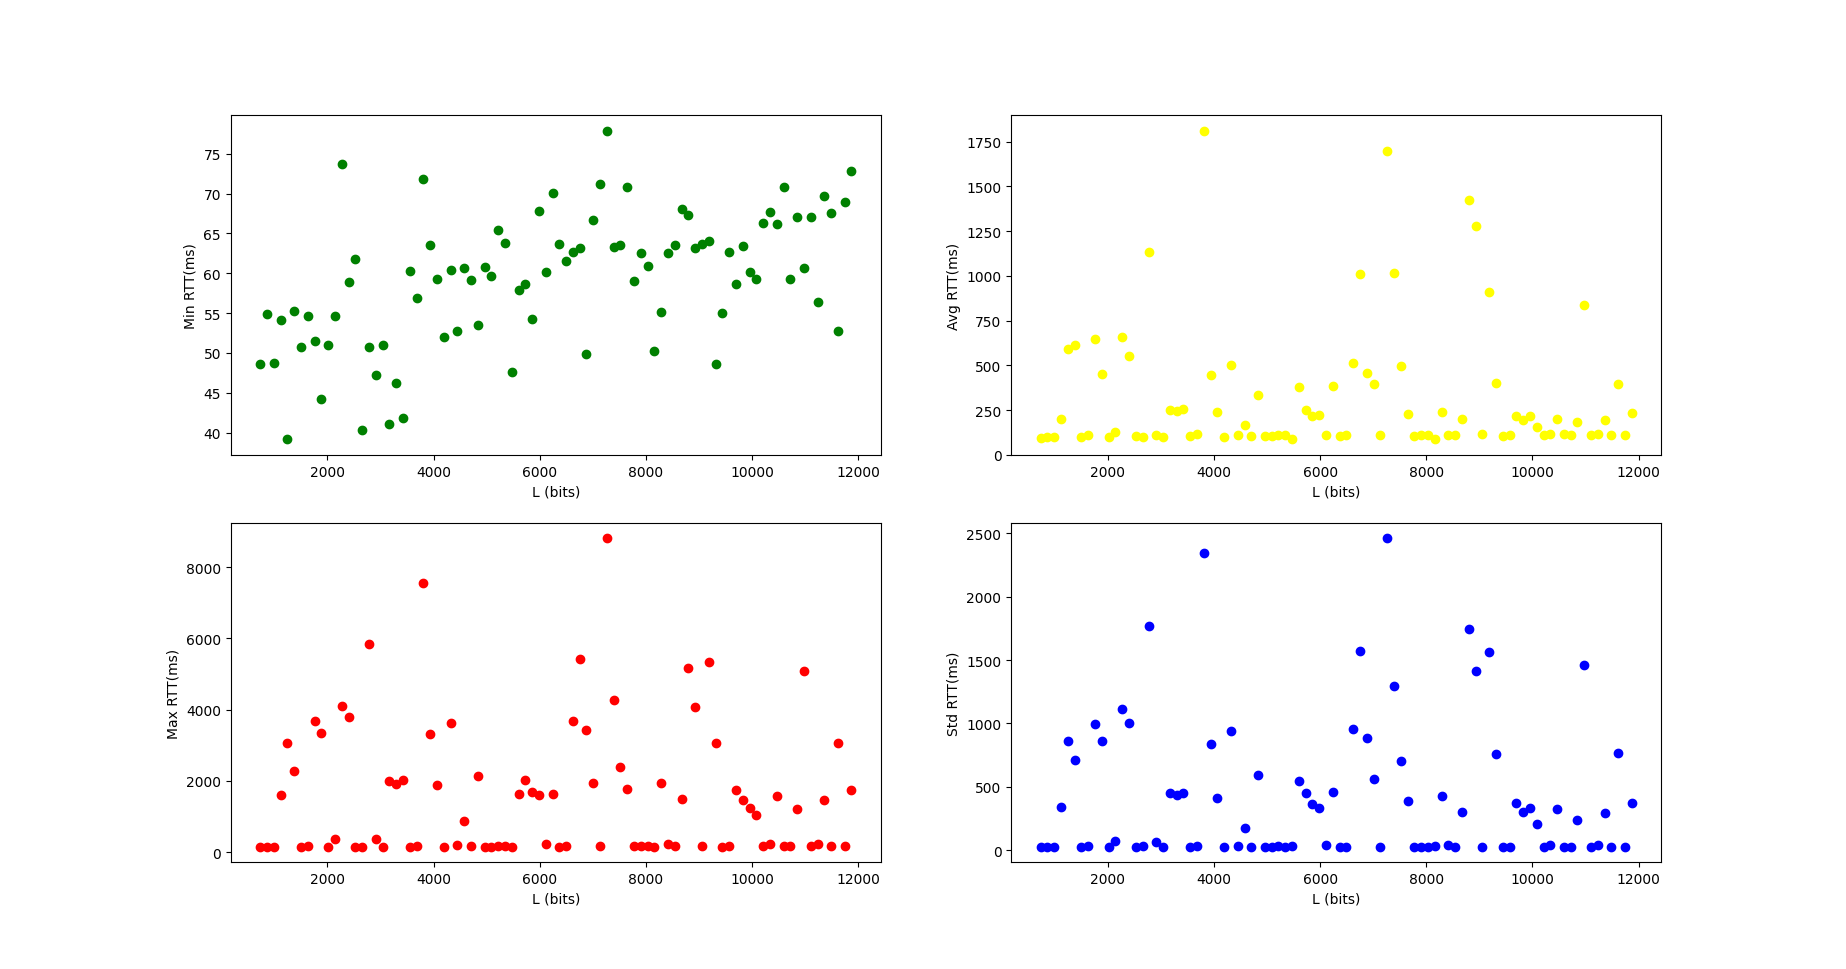
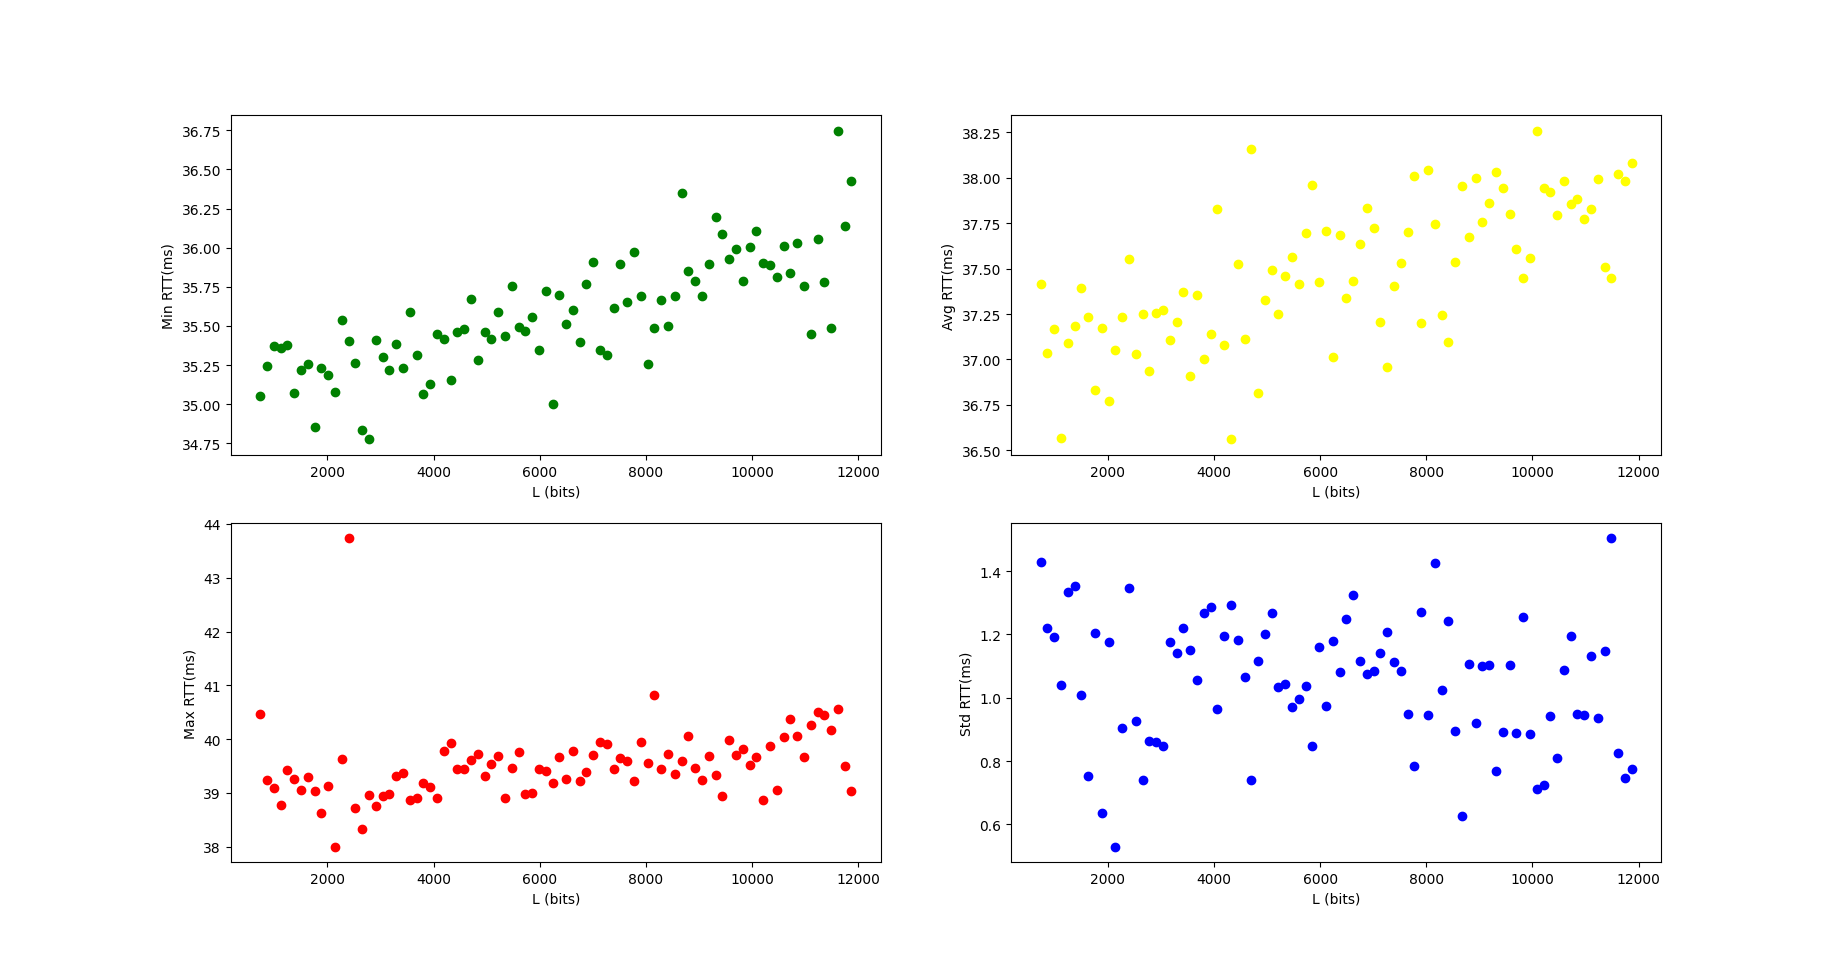
reporting

diff --git a/src/windows.py b/src/windows.py
@@ -74,14 +74,12 @@ def psping(ip, n, size):
 def get_stdev(out: str):
     round_trip_times = re.findall(r": (\d+\.\d+)ms", out)
     round_trip_times = list(map(float, round_trip_times))
-    # print(out)
-    # print(round_trip_times)
     stdev = statistics.pstdev(round_trip_times)
     return stdev
 
 
 # net performance
-def run_netperf(ip: str, k_packets=20, l_packets=64):
+def run_netperf(ip: str, k_packets=40, l_packets=64):
 
     ping_info = psping(ip, n=k_packets, size=l_packets)
     rtt = get_rtt(ping_info)

diff --git a/src/linux.py b/src/linux.py
@@ -79,10 +79,9 @@ def ping(ip, n, ttl, size, sudo):
 # net performance
 
 
-def run_netperf(ip: str, k_packets=20, TimeToLive=64, l_packets=64, sudo=False):
+def run_netperf(ip: str, k_packets=40, TimeToLive=64, l_packets=64, sudo=False):
 
-    ping_info = ping(ip, n=k_packets, ttl=TimeToLive,
-                     size=l_packets, sudo=sudo)
+    ping_info = ping(ip, n=k_packets, ttl=TimeToLive, size=l_packets, sudo=sudo)
     rtt = get_rtt(ping_info)
 
     return rtt

diff --git a/Report.md b/Report.md
@@ -38,7 +38,7 @@ $ mkdir output
 $ python3 -B ./src/netperf.py
 ```
 
-Once the program is running, it will ask to insert the hostname of which the **ping** command is going to run (notice that you can skip this input by simply pressing _Enter_ and the default hostname will be _"lon.speedtest.clouvider.net"_) and if you are in linux it will ask also to decide whether the user wants to run the commands in _sudo_ mode. In windows it is better practise to open the terminal in administrator mode in order to solve authorization problems. Then the program will run some ping commands in sequence and the traceroute command (tracert for windows) to find the correct amount of links crossed. Another ping command is prompted in order to save the output. At the end the program will loop other ping commands with increasing payload of packets each iteration up to 1472 bytes and steps of 16 bytes (number of packets sent is 20 each time). The last part of the program could take more than 10 minutes because the **ping** command is a time consuming process expecially if used for 90 iterations. In windows **psping** remove this time issue.
+Once the program is running, it will ask to insert the hostname of which the **ping** command is going to run (notice that you can skip this input by simply pressing _Enter_ and the default hostname will be _"lon.speedtest.clouvider.net"_) and if you are in linux it will ask also to decide whether the user wants to run the commands in _sudo_ mode. In windows it is better practise to open the terminal in administrator mode in order to solve authorization problems. Then the program will run some ping commands in sequence and the traceroute command (tracert for windows) to find the correct amount of links crossed. Another ping command is prompted in order to save the output. At the end the program will loop other ping commands with increasing payload of packets each iteration up to 1472 bytes and steps of 16 bytes (number of packets sent is 40 each time).
 
 ### Example NetPerf
 
@@ -49,7 +49,7 @@ Considering:
 * Finding total hops -->
 
   - Linux:
-    - command **ping** with params: _'-c 1'_ to send only 1 packet, _'-t n'_ to set max TTL to value _n_ and _'-s 1'_ to set packet size to 1 byte
+    - command **ping** with params: _'-i 0.01'_ to set waiting time to 0.01s, _'-c 1'_ to send only 1 packet, _'-t n'_ to set max TTL to value _n_ and _'-s 1'_ to set packet size to 1 byte
     - command **traceroute** to verify the correct links crossed during the **ping**
   - Windows:
     - command **ping** with params: _'-n 1'_ to send only 1 packet, _'-i n'_ to set max TTL to value _n_ and _'-l 1'_ to set packet size to 1 byte
@@ -58,23 +58,22 @@ Considering:
 * Default **ping** to save output to _.txt_ -->
 
   - Linux:
-    - command **ping** with params: _'-c 10'_ to send 10 packets, _'-t 64'_ to set max TTL to value _64_ and _'-s 64'_ to set packet size to 64 bytes
+    - command **ping** with params: _'-i 0.01'_ to set waiting time to 0.01s, _'-c 10'_ to send 10 packets, _'-t 64'_ to set max TTL to value _64_ and _'-s 64'_ to set packet size to 64 bytes
   - Windows:
     - command **ping** with params: _'-n 10'_ to send 10 packets, _'-i 64'_ to set max TTL to value _64_ and _'-l 64'_ to set packet size to 64 bytes
 
 * **Ping** loop to get the network stats -->
   - Set a list of steps of bytes starting from 64 up to 1472 with steps of 16 bytes.
   - Linux:
-    - command **ping** with params: _'-c 20'_ to send 20 packets, _'-t 64'_ to set max TTL to default value _64_ and _'-s steps[i]'_ to set packet size to _steps[i]_ bytes
+    - command **ping** with params: _'-i 0.01'_ to set waiting time to 0.01s, _'-c 40'_ to send 40 packets, _'-t 64'_ to set max TTL to default value _64_ and _'-s steps[i]'_ to set packet size to _steps[i]_ bytes
   - Windows:
-    - command **ping** with params: _'-n 20'_ to send 20 packets, _'-i 0'_ to set waiting time to _0_ and _'-l steps[i]'_ to set packet size to _steps[i]_ bytes
+    - command **psping** with params: _'-n 40'_ to send 40 packets, _'-i 0'_ to set waiting time to _0_ and _'-l steps[i]'_ to set packet size to _steps[i]_ bytes
 
 LINUX
 
 ```console
 $ make exe
 
-$ if [ ! -d "./output" ]; then mkdir output; fi
 $ python3 -B ./src/netperf.py
 $ Insert hostname, skip by pressing enter. The default hostname is
 $ 'lon.speedtest.clouvider.net'
@@ -85,17 +84,17 @@ $ Sudo (Y/N) Y			// this input is present only in linux
 $-------------Finding amount of hops to the host-------------
 $ Running command: sudo ping -c 1 -t 30 -s 1 5.180.211.133
 $ [sudo] password for dave:
-$ Running command: sudo ping -c 1 -t 29 -s 1 5.180.211.133
-$ Running command: sudo ping -c 1 -t 28 -s 1 5.180.211.133
-$ Running command: sudo ping -c 1 -t 27 -s 1 5.180.211.133
-$ Running command: sudo ping -c 1 -t 26 -s 1 5.180.211.133
-$ Running command: sudo ping -c 1 -t 25 -s 1 5.180.211.133
-$ Running command: sudo ping -c 1 -t 24 -s 1 5.180.211.133
-$ Running command: sudo ping -c 1 -t 23 -s 1 5.180.211.133
-$ Running command: sudo ping -c 1 -t 22 -s 1 5.180.211.133
-$ Running command: sudo ping -c 1 -t 21 -s 1 5.180.211.133
-$ Running command: sudo ping -c 1 -t 20 -s 1 5.180.211.133
-$ Running command: sudo ping -c 1 -t 19 -s 1 5.180.211.133
+$ Running command: sudo ping -i 0.01 -c 1 -t 29 -s 1 5.180.211.133
+$ Running command: sudo ping -i 0.01 -c 1 -t 28 -s 1 5.180.211.133
+$ Running command: sudo ping -i 0.01 -c 1 -t 27 -s 1 5.180.211.133
+$ Running command: sudo ping -i 0.01 -c 1 -t 26 -s 1 5.180.211.133
+$ Running command: sudo ping -i 0.01 -c 1 -t 25 -s 1 5.180.211.133
+$ Running command: sudo ping -i 0.01 -c 1 -t 24 -s 1 5.180.211.133
+$ Running command: sudo ping -i 0.01 -c 1 -t 23 -s 1 5.180.211.133
+$ Running command: sudo ping -i 0.01 -c 1 -t 22 -s 1 5.180.211.133
+$ Running command: sudo ping -i 0.01 -c 1 -t 21 -s 1 5.180.211.133
+$ Running command: sudo ping -i 0.01 -c 1 -t 20 -s 1 5.180.211.133
+$ Running command: sudo ping -i 0.01 -c 1 -t 19 -s 1 5.180.211.133
 $ ------------------------------------------------------------
 $ Running command: sudo ping -c 10 -t 64 -s 64 5.180.211.133
 $ PING 5.180.211.133 (5.180.211.133) 64(92) bytes of data.
@@ -142,7 +141,7 @@ $ Hops to host: 20
 $ Number of links crossed: 40
 $ ++++++++++++++++++++++++++++++++++++++++++++
 $ Running netperf with packets of size 512 bits
-$ Running command: sudo ping -c 20 -t 64 -s 64 5.180.211.133
+$ Running command: sudo ping -i 0.01 -c 40 -t 64 -s 64 5.180.211.133
 
 	// ... iteration of the ping command to get the network stats
 ```
